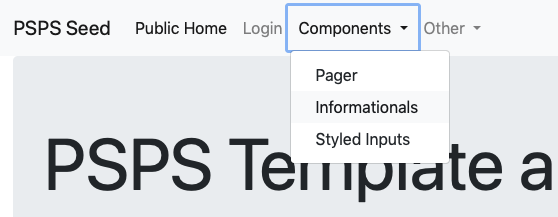
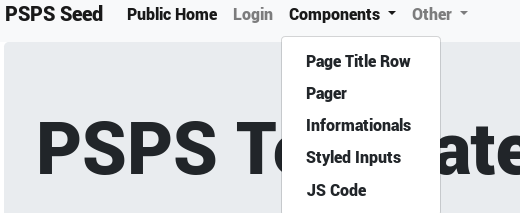
add JsSectionItem

Changed region(s): [[0.0, 0.0, 1.0, 0.9577]]

diff --git a/app/views/templates/bsNavbar.scala.html b/app/views/templates/bsNavbar.scala.html
@@ -19,6 +19,7 @@
             @c match {
               case SeparatorSectionItem => {<div class="dropdown-divider"></div>}
               case PageSectionItem(title, call ) => {<a class="dropdown-item" href="@call">@Messages(title)</a>}
+              case JsSectionItem(title, jsCode) => {<button class="btn" style="padding:.25rem 1.5rem;" onclick="@jsCode"> @Messages(title)</button>}
             }
           }
         </div>
